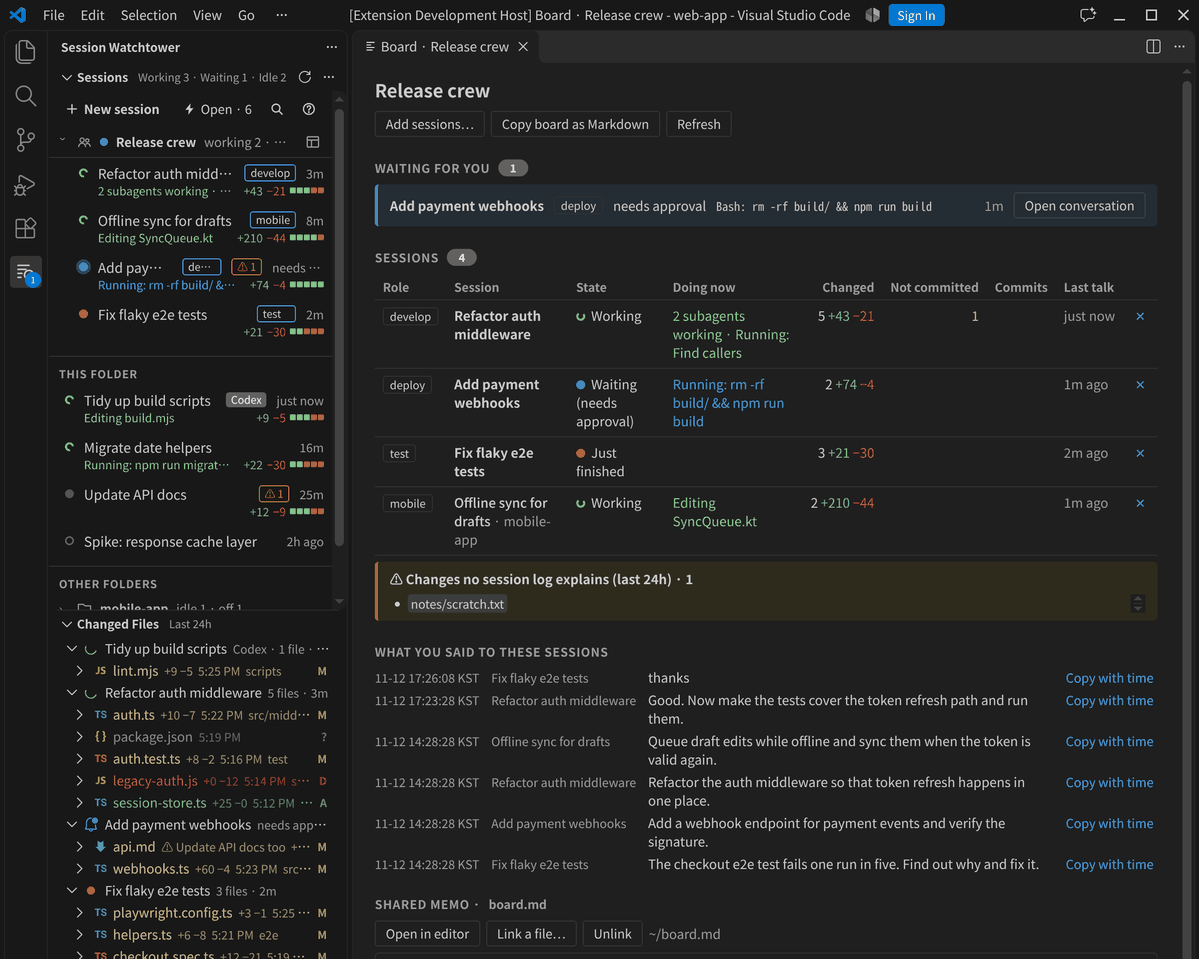
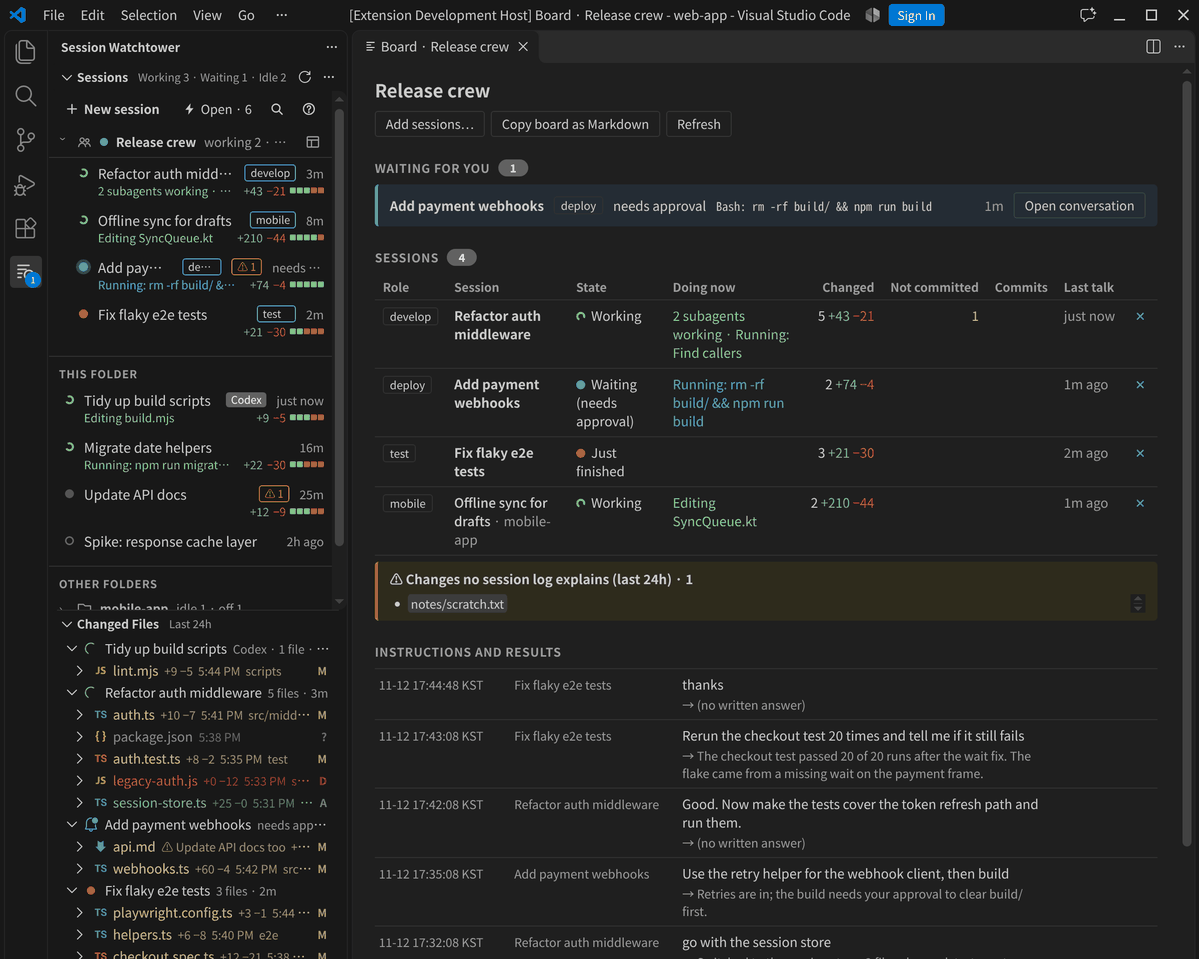
Pair each instruction with the session's answer on the group board
Version 0.17.2: the board shows what you told each session together with the first line of its answer, instead of a raw list of messages.

Problem: the board's message list mixed in notes Claude Code inserts (interruptions, long-conversation summaries), repeated the same message once per session, and showed nothing about what the sessions did.
Fix: only messages you typed are listed, the same message sent to several sessions within three minutes is one row, and each row shows the first line of the session's last answer in that turn; answers given to messages from other sessions are not attached to yours. The copy button shows only on the row under the mouse.
Check: 67 automated tests pass; the group test now covers interruptions, summaries, messages from other sessions and a message sent to two sessions, and the real logs of three sessions were read with the new rules.

diff --git a/extension.js b/extension.js
@@ -1040,7 +1040,8 @@ function boardStrings() {
     role: L('Role'), session: L('Session'), state: L('State'), now: L('Doing now'), changed: L('Changed'), uncommitted: L('Not committed'), commits: L('Commits'), last: L('Last talk'),
     setRole: L('Set role'), remove: L('Remove from group'), open: L('Open conversation'), otherFolder: L('From another folder ({0}): open it from a VS Code window with that folder.', '{0}'),
     unknownTitle: L('Changes no session log explains (last {0})', '{0}'), unknownTip: L('Uncommitted files in these repositories that changed within the time range but are not in any session log: edited by hand or by another tool. Older uncommitted files (backups, files never added to git) are left out.'),
-    said: L('What you said to these sessions'), saidNone: L('Nothing yet.'), saidBusy: L('Reading your messages…'), copyQuote: L('Copy with time'),
+    said: L('Instructions and results'), saidTip: L('What you typed to these sessions, newest first, with the first line of each session\'s last answer to it. Messages from other sessions and system notes are left out; the same message sent to several sessions is shown once.'),
+    saidNone: L('Nothing yet.'), saidBusy: L('Reading your messages…'), copyQuote: L('Copy with time'), noReply: L('(no written answer)'),
     memo: L('Shared memo'), memoNone: L('No memo file linked. Link a Markdown file the sessions also read and write (like a coordination board), or create a new one.'),
     linkMemo: L('Link a file…'), newMemo: L('Create a memo file'), openMemo: L('Open in editor'), unlinkMemo: L('Unlink'),
     addSessions: L('Add sessions…'), copyBoard: L('Copy board as Markdown'), refresh: L('Refresh'), empty: L('No sessions in this group yet. Use "Add sessions…" or the group button on a session row.'),
@@ -1056,6 +1057,13 @@ function boardMarkdown(p) {
   lines.push('', `### ${L('Sessions')}`, '', `| ${L('Role')} | ${L('Session')} | ${L('State')} | ${L('Doing now')} | ${L('Not committed')} | ${L('Commits')} |`, '|---|---|---|---|---|---|');
   const cell = (t) => String(t == null ? '' : t).replace(/\|/g, '\\|').replace(/\s+/g, ' ');
   for (const r of p.members) lines.push(`| ${cell(r.role)} | ${cell(r.title)} | ${cell(r.stateLabel)} | ${cell(r.now || r.last)} | ${r.uncommitted ? r.uncommitted.length : 0} | ${r.commits || 0} |`);
+  if (p.said && p.said.length) {
+    lines.push('', `### ${L('Instructions and results')}`);
+    for (const x of p.said.slice(0, 10)) {
+      const res = x.replies.filter((r) => r.reply).map((r) => (x.replies.length > 1 ? r.title + ': ' : '') + r.reply).join(' / ');
+      lines.push(`- ${x.stamp} · ${x.titles.join(', ')}: "${x.text.replace(/\s+/g, ' ').trim().slice(0, 200)}"${res ? ' → ' + res : ''}`);
+    }
+  }
   if (p.unknown.length) {
     lines.push('', `### ${L('Changes no session log explains (last {0})', p.span)}`);
     for (const f of p.unknown.slice(0, 50)) lines.push('- `' + f + '`');
@@ -1072,13 +1080,26 @@ function refreshSaid(id, force) {
   if (!force && key === b.saidKey && Date.now() - b.saidAt < SAID_MS) return; // 세션을 넣고 빼면 바로 다시 읽는다
   b.saidKey = key;
   b.saidBusy = true;
-  recentPrompts(Object.keys(g.members), 60).then((res) => {
+  recentPrompts(Object.keys(g.members), 80).then((res) => {
     const names = new Map(raw.map((s) => [s.sid, s.title]));
-    b.said = (res.results || []).map((x) => ({ sid: x.sid, title: names.get(x.sid) || x.title || x.sid.slice(0, 8), ts: x.ts, stamp: stampOf(x.ts), text: x.text }));
+    b.said = mergeSaid((res.results || []).map((x) => ({ sid: x.sid, title: names.get(x.sid) || x.title || x.sid.slice(0, 8), ts: x.ts, text: x.text, reply: x.reply || '' }))).slice(0, 50);
     b.saidAt = Date.now();
     b.saidBusy = false;
     postBoard(id);
   });
+}
+
+// 같은 말을 3분 안에 여러 세션에 보냈으면(예: "다시 시작하자"를 세 창에) 한 줄로 합친다. 답은 세션마다 남긴다
+const MERGE_MS = 3 * 60 * 1000;
+function mergeSaid(list) {
+  const out = [];
+  for (const x of list) {
+    const key = x.text.replace(/\s+/g, ' ').trim();
+    const hit = out.find((y) => y.key === key && Math.abs(y.ts - x.ts) <= MERGE_MS && !y.sids.includes(x.sid));
+    if (hit) { hit.sids.push(x.sid); hit.titles.push(x.title); hit.replies.push({ title: x.title, reply: x.reply }); continue; }
+    out.push({ key, ts: x.ts, stamp: stampOf(x.ts), text: x.text, sids: [x.sid], titles: [x.title], replies: [{ title: x.title, reply: x.reply }] });
+  }
+  return out.map(({ key, ...rest }) => rest);
 }
 
 function watchMemo(id, file) {
@@ -1179,7 +1200,7 @@ async function openGroupBoard(id) {
       Promise.resolve(vscode.env.clipboard.writeText(md)).then(() => vscode.window.showInformationMessage(L('Copied the board as Markdown.')));
     } else if (m.type === 'copyQuote' && Number.isInteger(m.i) && b.said[m.i]) {
       const x = b.said[m.i];
-      vscode.env.clipboard.writeText(`${x.stamp} "${x.text.replace(/\s+/g, ' ').trim()}" (${x.title})`);
+      vscode.env.clipboard.writeText(`${x.stamp} "${x.text.replace(/\s+/g, ' ').trim()}" (${x.titles.join(', ')})`);
     }
   });
   panel.onDidDispose(() => {
@@ -1235,10 +1256,16 @@ function boardHtml(webview) {
   .warnbox { margin-top: 6px; padding: 8px 12px; border-radius: 4px; border-left: 3px solid var(--vscode-editorWarning-foreground, #cca700); background: color-mix(in srgb, var(--vscode-editorWarning-foreground, #cca700) 9%, transparent); }
   .warnbox code, .paths code { font-size: 12px; }
   .paths { margin: 6px 0 0; padding-left: 18px; max-height: 160px; overflow: auto; }
-  .said { display: grid; grid-template-columns: auto auto 1fr auto; gap: 4px 12px; align-items: baseline; }
+  .said { border-top: 1px solid var(--vscode-widget-border, rgba(128,128,128,.18)); }
+  .said .it { display: grid; grid-template-columns: 9.5em 12em 1fr auto; gap: 2px 12px; padding: 6px 4px; border-bottom: 1px solid var(--vscode-widget-border, rgba(128,128,128,.18)); align-items: baseline; }
+  .said .it:hover { background: var(--vscode-list-hoverBackground); }
   .said .ts { font-variant-numeric: tabular-nums; white-space: nowrap; color: var(--vscode-descriptionForeground); font-size: 12px; }
-  .said .who { white-space: nowrap; max-width: 220px; overflow: hidden; text-overflow: ellipsis; font-size: 12px; color: var(--vscode-descriptionForeground); }
-  .said .txt { white-space: pre-wrap; word-break: break-word; max-height: 4.5em; overflow: hidden; }
+  .said .who { overflow: hidden; text-overflow: ellipsis; white-space: nowrap; font-size: 12px; color: var(--vscode-descriptionForeground); }
+  .said .txt { word-break: break-word; display: -webkit-box; -webkit-line-clamp: 2; -webkit-box-orient: vertical; overflow: hidden; }
+  .said .rep { grid-column: 3; font-size: 12px; color: var(--vscode-descriptionForeground); word-break: break-word; display: -webkit-box; -webkit-line-clamp: 2; -webkit-box-orient: vertical; overflow: hidden; }
+  .said .rep b { font-weight: 600; }
+  .said .cp { visibility: hidden; }
+  .said .it:hover .cp, .said .cp:focus-visible { visibility: visible; }
   .memo { margin-top: 6px; padding: 4px 16px; border: 1px solid var(--vscode-widget-border, rgba(128,128,128,.3)); border-radius: 4px; max-height: 70vh; overflow: auto; }
   .memo table { width: auto; }
   .memo td, .memo th { border: 1px solid var(--vscode-widget-border, rgba(128,128,128,.3)); }
@@ -1295,14 +1322,19 @@ function boardHtml(webview) {
         + '<ul class="paths">' + p.unknown.map((f) => '<li><code title="' + esc(f) + '">' + esc(rel(f)) + '</code></li>').join('') + '</ul></div>';
     }
     // 4. 내가 한 말
-    h += '<h2>' + esc(S.said) + '</h2>';
+    h += '<h2 title="' + esc(S.saidTip) + '">' + esc(S.said) + '</h2>';
     if (p.saidBusy && !p.said.length) h += '<div class="muted">' + esc(S.saidBusy) + '</div>';
     else if (!p.said.length) h += '<div class="muted">' + esc(S.saidNone) + '</div>';
     else {
       h += '<div class="said">';
       p.said.forEach((x, i) => {
-        h += '<span class="ts">' + esc(x.stamp) + '</span><span class="who" title="' + esc(x.title) + '">' + esc(x.title) + '</span><span class="txt">' + esc(x.text) + '</span>'
-          + '<button class="link" data-act="copyQuote" data-i="' + i + '">' + esc(S.copyQuote) + '</button>';
+        const who = x.titles.join(', ');
+        const many = x.replies.length > 1;
+        const rep = x.replies.map((r) => (many ? '<b>' + esc(r.title) + ':</b> ' : '') + (r.reply ? esc(r.reply) : esc(S.noReply))).join('<br>');
+        h += '<div class="it"><span class="ts">' + esc(x.stamp) + '</span><span class="who" title="' + esc(who) + '">' + esc(who) + '</span>'
+          + '<span class="txt" title="' + esc(x.text) + '">' + esc(x.text) + '</span>'
+          + '<button class="link cp" data-act="copyQuote" data-i="' + i + '">' + esc(S.copyQuote) + '</button>'
+          + '<span class="rep">→ ' + rep + '</span></div>';
       });
       h += '</div>';
     }

diff --git a/test/groups.test.js b/test/groups.test.js
@@ -37,11 +37,19 @@ for (const f of [app, path.join(project, 'stray.txt')]) fs.utimesSync(f, new Dat
 
 const sleeper = spawn('sleep', ['120'], { stdio: 'ignore' });
 const SID = { w: 'a0b00000-1111-4111-8111-111111111111', d: 'a0b00000-2222-4222-8222-222222222222', v: 'a0b00000-3333-4333-8333-333333333333', o: 'a0b00000-4444-4444-8444-444444444444', x: 'a0b00000-5555-4555-8555-555555555555' };
-fx.claudeSession(home, project, SID.w, [rec.user(project, now - 40 * MIN, 'Watch the other sessions every half hour'), rec.aiTitle(SID.w, 'Watcher'), rec.user(project, now - 6 * MIN, 'ship it')]);
-fx.claudeSession(home, project, SID.d, [rec.user(project, now - 30 * MIN, 'Prepare the release'), rec.aiTitle(SID.d, 'Deployer'),
+// 세션의 답(글), 다른 세션이 보낸 말(isMeta + origin peer), Claude Code가 끼워 넣은 중단 표시·긴 대화 요약
+const say = (ts, text) => ({ type: 'assistant', message: { role: 'assistant', content: [{ type: 'text', text }] }, cwd: project, timestamp: new Date(ts).toISOString() });
+const peer = (ts, text) => ({ type: 'user', isMeta: true, origin: { kind: 'peer' }, message: { role: 'user', content: text }, cwd: project, timestamp: new Date(ts).toISOString() });
+const summary = (ts) => ({ type: 'user', isCompactSummary: true, message: { role: 'user', content: 'This session is being continued from a previous conversation that ran out of context.' }, cwd: project, timestamp: new Date(ts).toISOString() });
+fx.claudeSession(home, project, SID.w, [rec.user(project, now - 40 * MIN, 'Watch the other sessions every half hour'), rec.aiTitle(SID.w, 'Watcher'),
+  rec.user(project, now - 8 * MIN, 'restart now'), rec.user(project, now - 7 * MIN, '[Request interrupted by user]'), summary(now - 6.5 * MIN),
+  rec.user(project, now - 6 * MIN, 'ship it'), say(now - 5.9 * MIN, 'Working on it'), say(now - 5.8 * MIN, '**Shipped.** All good\n\nDetails follow.')]);
+fx.claudeSession(home, project, SID.d, [rec.user(project, now - 30 * MIN, 'Prepare the release'), rec.aiTitle(SID.d, 'Deployer'), say(now - 29 * MIN, '## Release prepared.'),
+  peer(now - 28 * MIN, 'Another Claude session sent a message: check the logs'), say(now - 27 * MIN, 'Peer handled.'),
   rec.toolUse(project, now - 2 * MIN, 't_rel', 'Bash', { command: 'scripts/release.sh promote' })]);
 fx.claudeSession(home, project, SID.v, [rec.user(project, now - 25 * MIN, 'Fix the parser'), rec.aiTitle(SID.v, 'Developer'),
-  rec.toolUse(project, now - 21 * MIN, 't_e', 'Edit', { file_path: app, old_string: 'v1', new_string: 'v2' }), rec.toolResult(now - 21 * MIN + 400, 't_e', rec.editResult(app, 'v1\n', 'v1', 'v2'))]);
+  rec.toolUse(project, now - 21 * MIN, 't_e', 'Edit', { file_path: app, old_string: 'v1', new_string: 'v2' }), rec.toolResult(now - 21 * MIN + 400, 't_e', rec.editResult(app, 'v1\n', 'v1', 'v2')),
+  rec.user(project, now - 8 * MIN + 20000, 'restart now')]);
 fx.claudeSession(home, other, SID.o, [rec.user(other, now - 10 * MIN, 'Check the other app'), rec.aiTitle(SID.o, 'Outside')]);
 fx.claudeSession(home, project, SID.x, [rec.user(project, now - 50 * MIN, 'Something unrelated'), rec.aiTitle(SID.x, 'Loner')]);
 fx.registerSession(home, process.pid, SID.w, { status: 'idle', cwd: project, name: 'w', nameSource: 'derived', statusUpdatedAt: now - 5 * MIN });
@@ -127,19 +135,29 @@ test('그룹 보드: 기다리는 세션, 세션 현황(커밋 안 한 파일), 
   assert.strictEqual(out.canOpen, false, '다른 폴더 세션은 이 창에서 열 수 없다고 알린다');
   assert.strictEqual(p.members.find((m) => m.title === 'Watcher').role, 'watch');
 
-  // 내가 한 말: 최근 것부터, 결정 기록에 쓰는 모양(시각 + 원문 + 세션)으로 복사
-  const said = await waitFor(() => { const x = panel.lastPayload(); return x && x.said && x.said.length >= 5 ? x.said : null; }, '내가 한 말', 15000);
+  // 지시와 결과: 내가 친 말(최근 것부터) + 세션이 마지막으로 답한 글의 첫 줄. 결정 기록에 쓰는 모양(시각 + 원문 + 세션)으로 복사
+  const said = await waitFor(() => { const x = panel.lastPayload(); return x && x.said && x.said.length >= 6 ? x.said : null; }, '지시와 결과', 15000);
+  assert.strictEqual(said.length, 6, '같은 말을 두 세션에 보낸 것은 한 줄: ' + said.map((x) => x.text).join(' | '));
   assert.strictEqual(said[0].text, 'ship it', '가장 최근에 한 말이 맨 위');
   assert.match(said[0].stamp, /^\d\d-\d\d \d\d:\d\d:\d\d (KST|UTC[+−]\d+(:\d\d)?)$/);
+  assert.strictEqual(said[0].replies[0].reply, 'Shipped. All good', '그 차례의 마지막 답, 첫 줄만, 꾸밈 글자는 걷어 냄');
+  assert.ok(!said.some((x) => /Request interrupted|being continued/.test(x.text)), 'Claude Code가 끼워 넣은 말은 내 말이 아니다');
+  const restart = said.find((x) => x.text === 'restart now');
+  assert.deepStrictEqual([...restart.titles].sort(), ['Developer', 'Watcher'], '두 세션에 보낸 같은 말은 세션을 함께 적는다');
+  assert.strictEqual(said.find((x) => x.text === 'Prepare the release').replies[0].reply, 'Release prepared.', '다른 세션이 보낸 말 뒤의 답은 내 말의 답이 아니다');
   assert.ok(!said.some((x) => x.text === 'Something unrelated'), '그룹 밖 세션에 한 말은 넣지 않는다');
+  assert.match(panel.webview.html, /\.said \.it:hover \.cp/, '복사 단추는 마우스를 올린 줄에만');
   panel.send({ type: 'copyQuote', i: 0 });
   await waitFor(() => /^\d\d-\d\d \d\d:\d\d:\d\d \S+ "ship it" \(Watcher\)$/.test(stub.state.clipboard || ''), '원문·시각 복사');
+  panel.send({ type: 'copyQuote', i: said.indexOf(restart) });
+  await waitFor(() => /"restart now" \((Developer, Watcher|Watcher, Developer)\)$/.test(stub.state.clipboard || ''), '여러 세션이면 함께');
 
   // 보드 전체를 마크다운으로
   panel.send({ type: 'copyBoard' });
   await waitFor(() => /### Waiting for you\n- Deployer: needs approval — `/.test(stub.state.clipboard || ''), '마크다운 복사');
-  assert.match(stub.state.clipboard, /\| watch \| Watcher \| Just finished \| 6m ago \| 0 \| 0 \|/);
+  assert.match(stub.state.clipboard, /\| watch \| Watcher \| Just finished \| \d+m ago \| 0 \| 0 \|/);
   assert.match(stub.state.clipboard, /stray\.txt/);
+  assert.match(stub.state.clipboard, /### Instructions and results\n- \S+ \S+ \S+ · Watcher: "ship it" → Shipped\. All good/);
 });
 
 test('공유 메모: 파일을 연결하면 보드에 보이고, 파일이 바뀌면 다시 그린다. 그룹에서 빼면 보드와 목록에서 빠진다', async () => {

diff --git a/scanner.js b/scanner.js
@@ -1405,7 +1405,7 @@ function discover(sinceMs, registry, includeCodex, listSinceMs, projectDirs, oth
 
 // ---------- 내가 보낸 말 색인(대화 내용으로 세션 찾기) ----------
 // 대화 기록은 수 GB라 찾을 때마다 다 읽을 수 없다. 사용자가 직접 쓴 말만 따로 모아 두고(기록 파일이 자란 만큼만 더 읽음) 그 안에서 찾는다.
-const PROMPT_INDEX_VERSION = 1;
+const PROMPT_INDEX_VERSION = 2; // 2: 세션이 답한 마지막 말의 첫 줄(reply)도 모은다, 시스템이 끼워 넣은 말은 뺀다
 const PROMPT_MAX = 2000;
 const K_ISMETA = B('"isMeta":true');
 
@@ -1417,6 +1417,19 @@ function cleanPrompt(text) {
   t = t.replace(/<command-name>([^<]*)<\/command-name>/g, '$1 ');
   t = t.replace(/\s+/g, ' ').trim();
   return t.length > PROMPT_MAX ? t.slice(0, PROMPT_MAX) : t;
+}
+
+// 사용자가 친 것이 아니라 Claude Code가 끼워 넣은 user 기록(중단 표시, 긴 대화 요약, 명령 안내)
+const NOT_TYPED_RE = /^(\[Request interrupted by user|This session is being continued from a previous conversation|Caveat: The messages below were generated)/;
+const K_TEXTPART = B('"type":"text"');
+
+// 세션이 답한 글의 첫 줄(마크다운 꾸밈은 걷어 낸다). 사용자의 세션들은 첫 줄에 결론을 쓴다
+function replyHead(text) {
+  for (const raw of String(text || '').split('\n')) {
+    const t = raw.replace(/^\s*(#{1,6}\s+|[-*]\s+|>\s*)/, '').replace(/\*\*|__|`/g, '').replace(/\s+/g, ' ').trim();
+    if (t) return t.length > 300 ? t.slice(0, 300) + '…' : t;
+  }
+  return '';
 }
 
 function createPromptIndex() {
@@ -1461,16 +1474,33 @@ function createPromptIndex() {
           try { const o = JSON.parse(line.toString('utf8')); if (o.type === 'custom-title' && o.customTitle) { e.title = String(o.customTitle); e.custom = true; } else if (o.type === 'ai-title' && o.aiTitle && !e.custom) e.title = String(o.aiTitle); } catch { /* 깨진 줄 */ }
           return;
         }
+        // 세션의 답: 마지막 말 다음에 나온 assistant 글. 차례가 끝날 때까지 덮어써서 마지막 답의 첫 줄이 남는다
+        if (e.open && e.prompts.length && line.length < 400000 && line.indexOf(K_ASSISTANT) >= 0 && line.indexOf(K_TEXTPART) >= 0 && line.subarray(0, 48).indexOf(K_APIREQ) < 0) {
+          let a;
+          try { a = JSON.parse(line.toString('utf8')); } catch { return; }
+          if (!a || a.type !== 'assistant' || a.isSidechain || !a.message || !Array.isArray(a.message.content)) return;
+          const txt = a.message.content.filter((x) => x && x.type === 'text' && typeof x.text === 'string').map((x) => x.text).join('\n');
+          const head = replyHead(txt);
+          if (head) { const last = e.prompts[e.prompts.length - 1]; last.reply = head; last.replyTs = Date.parse(a.timestamp) || 0; }
+          return;
+        }
         // 사용자가 쓴 말: user 기록이면서 도구 결과가 아니고, 시스템이 끼워 넣은 것(isMeta)이 아닌 줄
-        if (line.length > 400000 || line.indexOf(K_USER) < 0 || line.indexOf(K_TOOLUSEID) >= 0 || line.indexOf(K_ISMETA) >= 0) return;
+        if (line.length > 400000 || line.indexOf(K_USER) < 0 || line.indexOf(K_TOOLUSEID) >= 0) return;
         if (line.subarray(0, 48).indexOf(K_APIREQ) >= 0) return;
         let o;
         try { o = JSON.parse(line.toString('utf8')); } catch { return; }
-        if (!o || o.type !== 'user' || o.isMeta || o.toolUseResult || o.isSidechain) return;
+        if (!o || o.type !== 'user' || o.toolUseResult || o.isSidechain) return;
+        // 차례 경계: 다른 세션이 보낸 말(peer)·작업 알림·명령 뒤에 나온 답은 그 일에 대한 것이라 앞의 내 말에 붙이지 않는다.
+        // 그림 첨부 같은 isMeta 기록과 긴 대화 요약은 같은 차례 안의 것이라 경계로 보지 않는다
+        const kind = o.origin && typeof o.origin === 'object' && typeof o.origin.kind === 'string' ? o.origin.kind : '';
+        if (o.isMeta) { if (kind === 'peer') e.open = false; return; }
+        if (o.isCompactSummary) return;
+        if (kind && kind !== 'human') { e.open = false; return; }
         if (o.cwd && !e.cwd) e.cwd = o.cwd;
         const text = cleanPrompt(allTextOfUser(o));
-        if (text.length < 2 || text[0] === '<') return;
+        if (text.length < 2 || text[0] === '<' || NOT_TYPED_RE.test(text)) { e.open = false; return; }
         e.prompts.push({ ts: Date.parse(o.timestamp) || 0, text });
+        e.open = true;
       };
       while (pos < stat.size) {
         const n = fs.readSync(fd, buf, 0, Math.min(CHUNK, stat.size - pos), pos);
@@ -1548,7 +1578,7 @@ function createPromptIndex() {
     const out = [];
     for (const e of idx.values()) {
       if (!want.has(e.sid)) continue;
-      for (const p of e.prompts) out.push({ sid: e.sid, title: e.title || '', ts: p.ts, text: p.text });
+      for (const p of e.prompts) out.push({ sid: e.sid, title: e.title || '', ts: p.ts, text: p.text, reply: p.reply || '', replyTs: p.replyTs || 0 });
     }
     out.sort((a, b) => b.ts - a.ts);
     return { results: out.slice(0, o.max || 50), total: out.length, stats };

diff --git a/README.md b/README.md
@@ -130,7 +130,7 @@ The **board** button on a group opens its board, a page for the whole group:
 | Waiting for you | Sessions waiting for your approval or answer, with the command they want to run |
 | Sessions | Role, state, what each is doing now, files changed, files **not committed yet**, commits and the last conversation |
 | Changes no session log explains | Uncommitted files in the group's repositories that changed within the time range but are in no session log: edited by hand or by another tool. Older uncommitted files, such as backups never added to git, are left out. Check these before you build a release |
-| What you said | Your messages to the group's sessions, newest first. *Copy with time* copies one as `11-12 15:31:15 KST "…" (session)`, the way a decision log records it |
+| Instructions and results | What you typed to the group's sessions, newest first, with the first line of each session's last answer to it (people who ask their sessions to lead with the conclusion get a one-line result). Messages from other sessions and system notes are left out, and the same message sent to several sessions is shown once. Hover a row for *Copy with time*, which copies it as `11-12 15:31:15 KST "…" (session)`, the way a decision log records it |
 | Shared memo | A Markdown file the sessions also read and write, such as a coordination board with decisions and handoff notes. Link an existing file, or create one in the extension's storage. It is shown as rendered Markdown and refreshes when the file changes |
 
 *Copy board as Markdown* puts a snapshot of the board on the clipboard, for example to paste into the shared memo.

diff --git a/CHANGELOG.md b/CHANGELOG.md
@@ -1,5 +1,10 @@
 # Changelog
 
+## 0.17.2
+
+- The board's "What you said" is now **Instructions and results**: each message you typed to the group comes with the first line of the session's last answer to it. Notes that Claude Code inserts (interruptions, summaries of long conversations) and messages from other sessions are left out, the same message sent to several sessions is shown once, and *Copy with time* appears only on the row under the mouse.
+- *Copy board as Markdown* includes the ten latest instructions and results.
+
 ## 0.17.1
 
 - Fixed: the board's "Changes no session log explains" listed every uncommitted file no session had touched, including backups and files that had sat outside git for weeks. It now lists only files changed within the time range.
